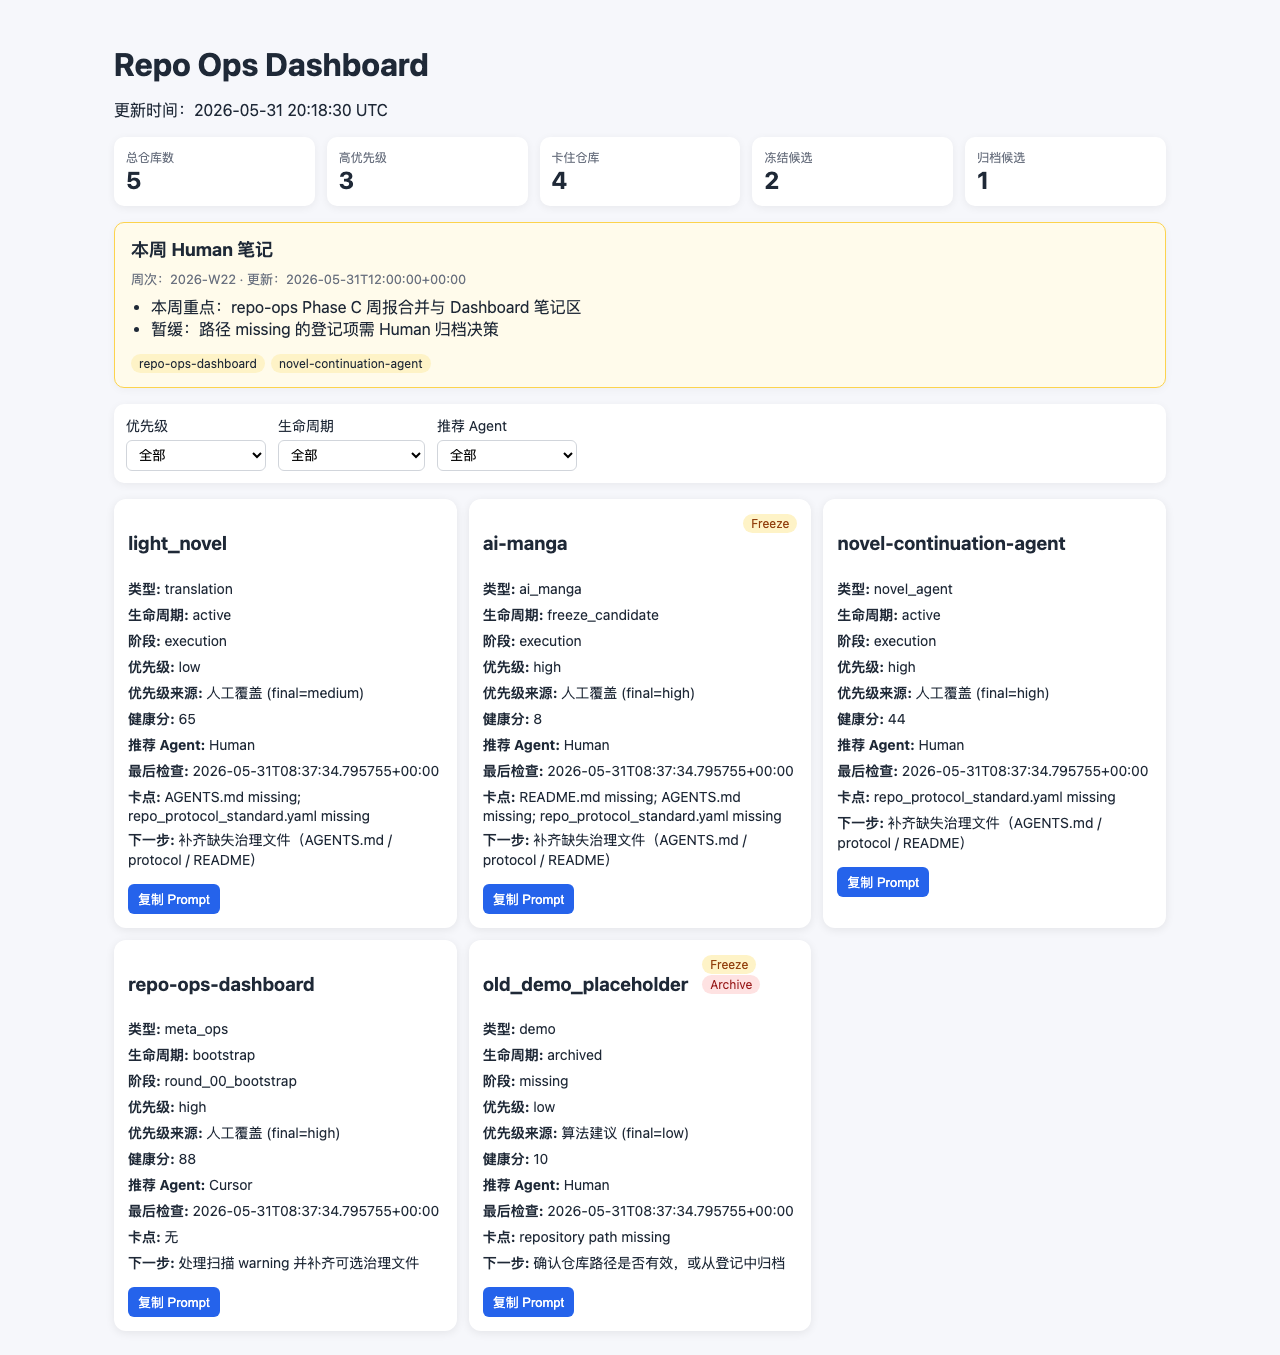
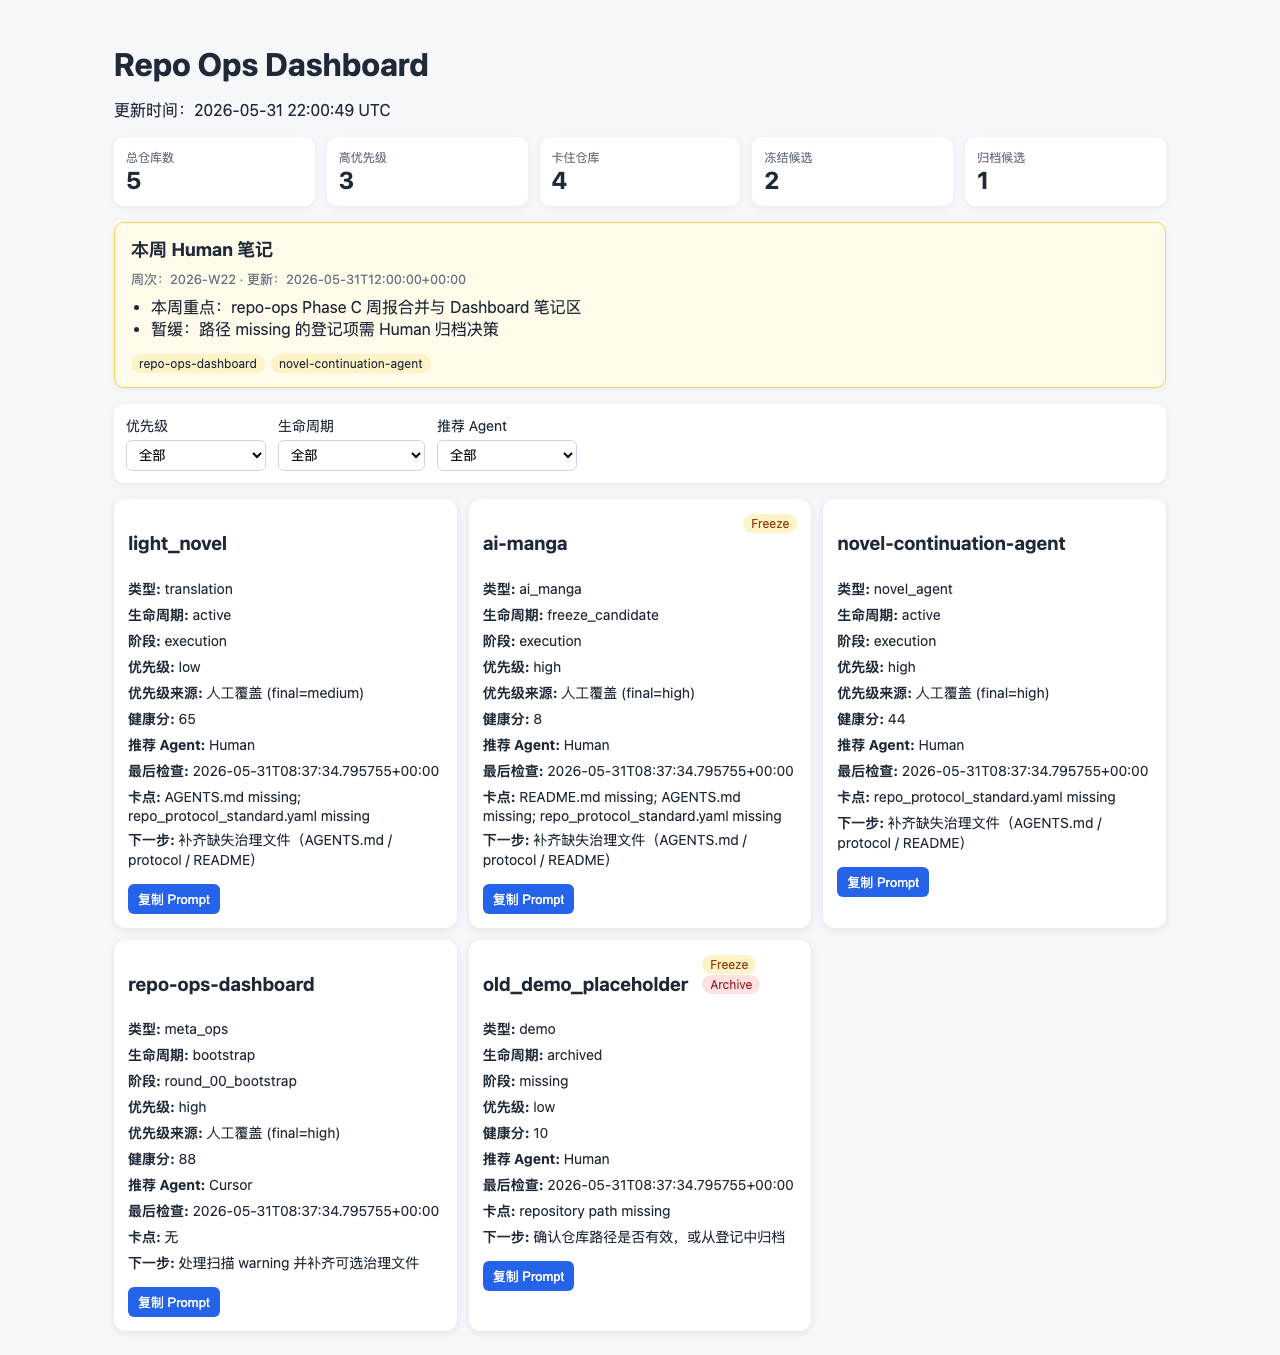
Round 24 收尾：刷新示例 Dashboard 与验证报告。
全量验证通过（agent_gate、pytest 37、ui_check Playwright）。

Changed region(s): [[0.375, 0.8059, 0.625, 0.9919], [0.25, 0.062, 0.3125, 0.093]]

diff --git a/dashboard/index.html b/dashboard/index.html
@@ -10,7 +10,7 @@
   <main class="container" data-dashboard-ready="true">
     <header>
       <h1>Repo Ops Dashboard</h1>
-      <p>更新时间：2026-05-31 20:38:38 UTC</p>
+      <p>更新时间：2026-05-31 22:00:49 UTC</p>
     </header>
     <section class="stats">
       <div class="stat"><span>总仓库数</span><strong>5</strong></div>
@@ -164,7 +164,7 @@
       <p><strong>生命周期:</strong> archived</p>
       <p><strong>阶段:</strong> missing</p>
       <p><strong>优先级:</strong> low</p>
-      <p><strong>优先级来源:</strong> 算法建议 (final=low)</p>
+      
       <p><strong>健康分:</strong> 10</p>
       <p><strong>推荐 Agent:</strong> Human</p>
       <p><strong>最后检查:</strong> 2026-05-31T08:37:34.795755+00:00</p>

diff --git a/reports/protocol_sync_suggestions.md b/reports/protocol_sync_suggestions.md
@@ -1,6 +1,6 @@
 # Protocol Sync Suggestions
 
-- generated_at: 2026-05-31T20:38:37.765472+00:00
+- generated_at: 2026-05-31T21:58:52.239246+00:00
 - reference_protocol_version: 0.2.0
 - **只读建议**：不在此脚本中写入任何被管理仓库。
 
@@ -8,11 +8,23 @@
 
 | 仓库 | 状态 | 缺失治理文件 |
 |------|------|--------------|
-| light_novel | active | AGENTS.md, repo_protocol_standard.yaml |
-| ai-manga | active | README.md, AGENTS.md, repo_protocol_standard.yaml, CHANGELOG.md, docs/index.md |
 | novel-continuation-agent | active | repo_protocol_standard.yaml, CHANGELOG.md |
+| ai-manga | empty | （跳过：路径不可用） |
 | repo-ops-dashboard | bootstrap | — |
-| old_demo_placeholder | missing | （跳过：路径不可用） |
+| ai-anime-short-factory | active | repo_protocol_standard.yaml |
+| wechat-article-scheduler | active | repo_protocol_standard.yaml, CHANGELOG.md |
+| light_novel | active | AGENTS.md, repo_protocol_standard.yaml |
+| computer_study_plan | active | repo_protocol_standard.yaml, CHANGELOG.md, docs/index.md |
+| world-news-lens | active | repo_protocol_standard.yaml |
+| pixel-world-asset-forge | active | AGENTS.md, repo_protocol_standard.yaml, docs/index.md |
+| agent-experiments | active | README.md, AGENTS.md, repo_protocol_standard.yaml, CHANGELOG.md, docs/index.md |
+| ai-anime-short-factory-external | active | README.md, AGENTS.md, repo_protocol_standard.yaml, CHANGELOG.md, docs/index.md |
+| api-mini-labs | active | AGENTS.md, repo_protocol_standard.yaml, CHANGELOG.md, docs/index.md |
+| audiobook-cleaner-lab | active | repo_protocol_standard.yaml, CHANGELOG.md, docs/index.md |
+| resilient-personal-network | active | AGENTS.md, repo_protocol_standard.yaml, CHANGELOG.md, docs/index.md |
+| tool-mini-labs | active | AGENTS.md, repo_protocol_standard.yaml, CHANGELOG.md, docs/index.md |
+| typing-practice-app | active | AGENTS.md, repo_protocol_standard.yaml, CHANGELOG.md, docs/index.md |
+| youtube_hq_downloader | active | AGENTS.md, repo_protocol_standard.yaml, docs/index.md |
 
 ## 建议执行顺序
 

diff --git a/reports/priority_review.md b/reports/priority_review.md
@@ -1,6 +1,6 @@
 # Priority Review
 
-- generated_at: 2026-05-31T19:30:45.090215+00:00
+- generated_at: 2026-05-31T21:58:52.046704+00:00
 - 说明：以下为**建议**优先级；Human 在 `config/repos.yaml` 的 `priority_hint` 中覆盖后，`final_priority` 以人工为准。
 
 ## 因素说明

diff --git a/reports/ui_check_report.md b/reports/ui_check_report.md
@@ -1,6 +1,6 @@
 # UI Check Report
 
-- generated_at: 2026-05-31T20:18:31.547251+00:00
+- generated_at: 2026-05-31T22:01:10.103534+00:00
 - status: PASS
 - screenshot: reports/ui_screenshots/dashboard.png
 

diff --git a/reports/agent_gate_report.md b/reports/agent_gate_report.md
@@ -1,6 +1,6 @@
 # Agent Gate Report
 
-- generated_at: 2026-05-31T21:58:51.725624+00:00
+- generated_at: 2026-05-31T22:01:10.346369+00:00
 - verdict: PASS
 
 ## Findings
